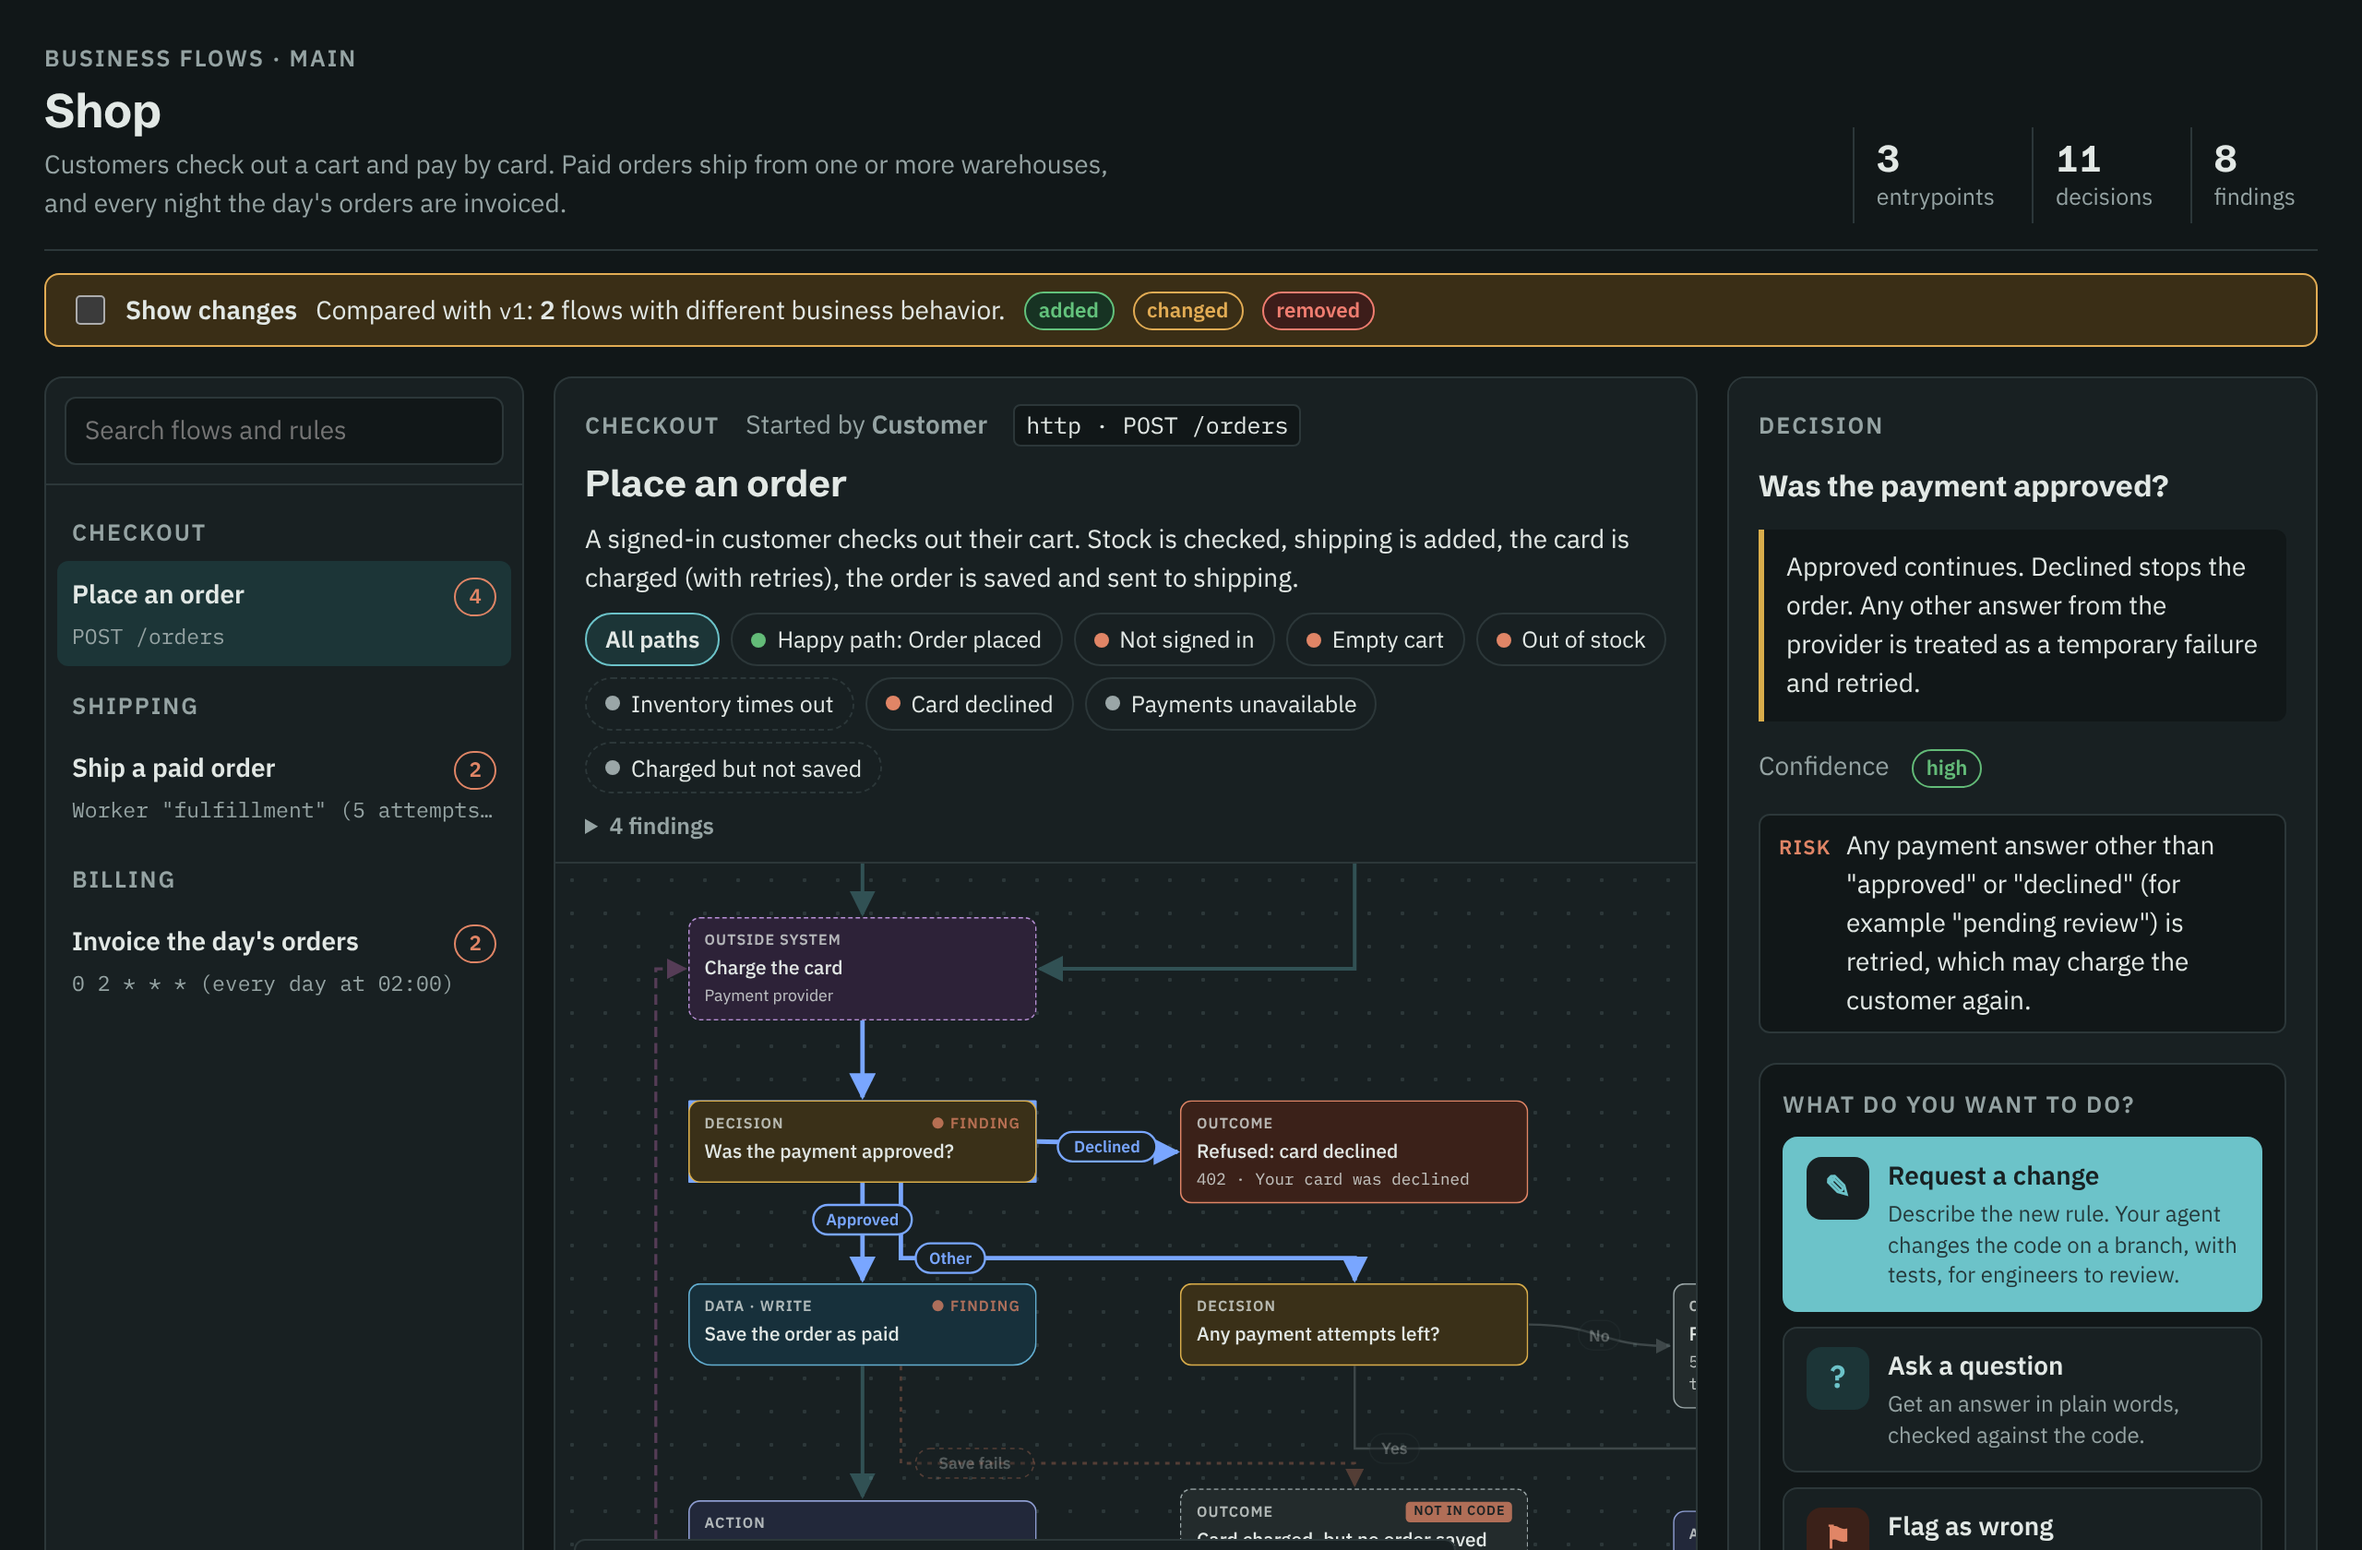
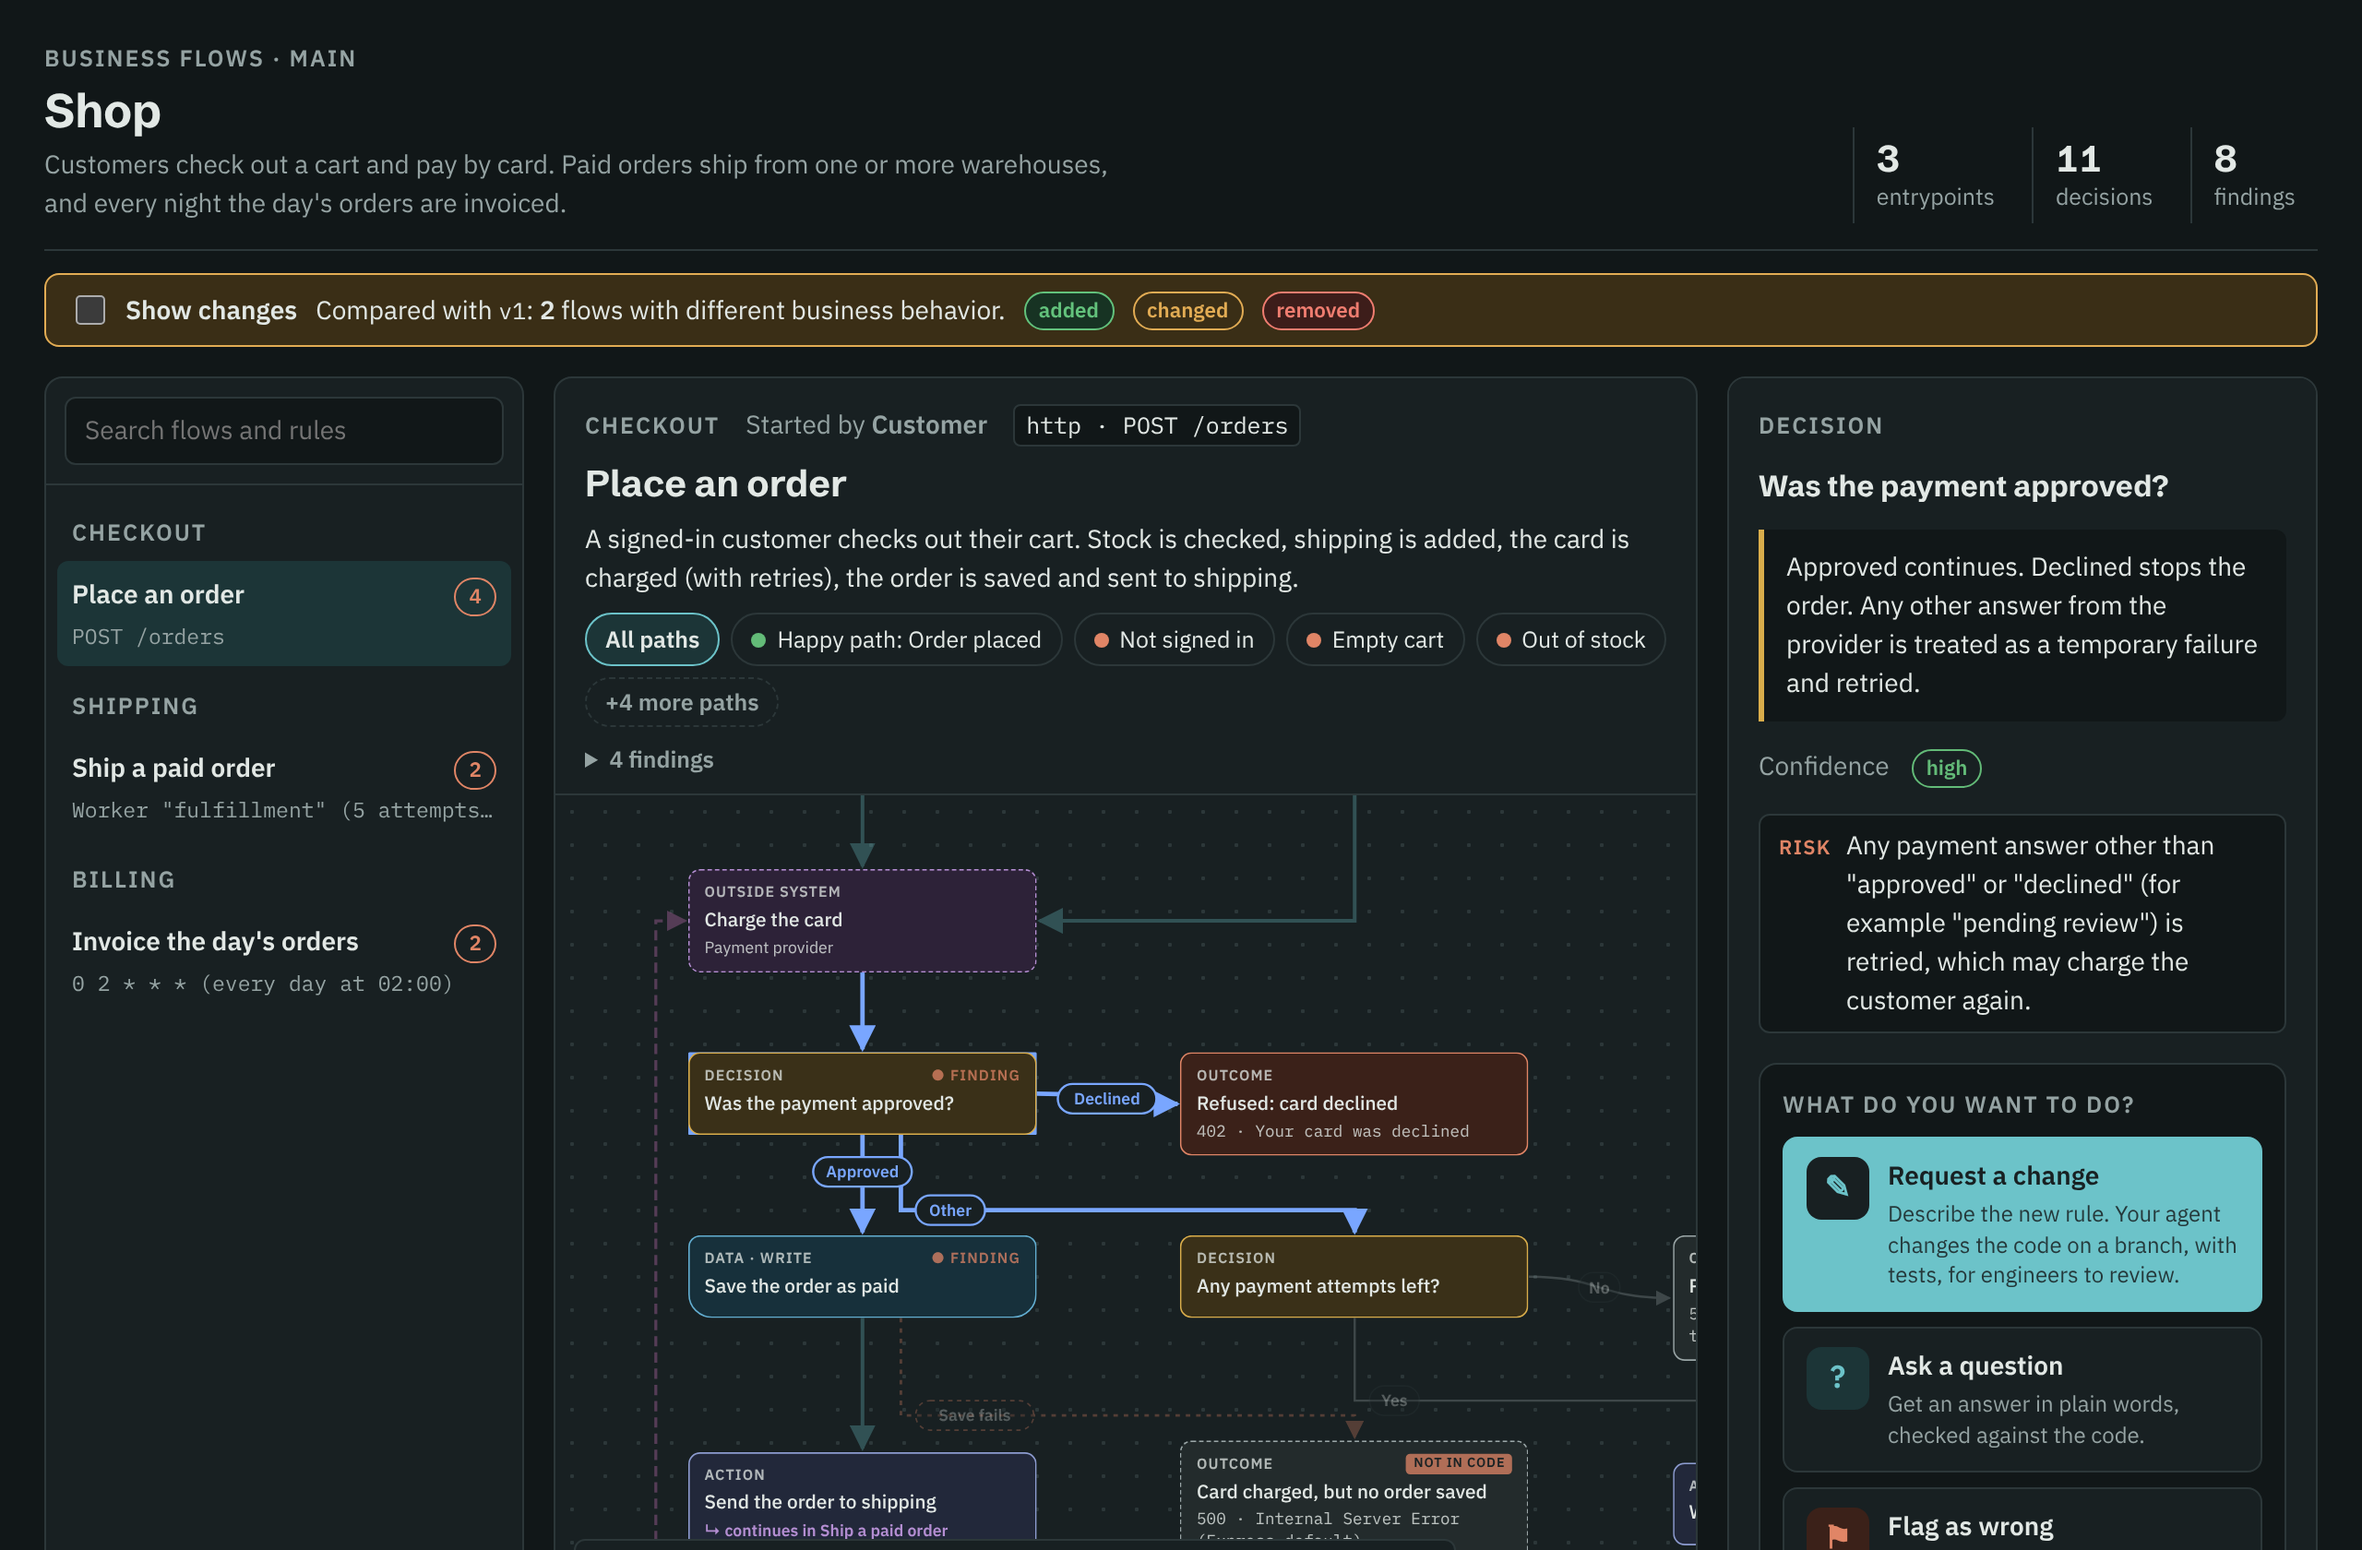
Viewer: collapse long path lists
Flows with many outcomes filled several rows with path buttons. With
more than four alternate outcomes, the row now shows "All paths", the
happy path and the first three alternates, then "+N more paths";
expanded, it shows every outcome and "Show fewer". The selected path
stays visible while collapsed, and the list collapses again when
switching flows.

Claude-Session: https://claude.ai/code/session_01PJiSFCH6Fftah1hFFyPCRG

diff --git a/examples/shop/index.html b/examples/shop/index.html
@@ -846,7 +846,14 @@ const PAYLOAD = {"head":{"version":1,"app":{"name":"Shop","summary":"Customers c
     const others = outcomes.filter((o) => o.id !== f.happyPath);
     const chips = [`<button type="button" class="pathbtn" data-p="all" aria-pressed="${state.path === 'all'}">All paths</button>`];
     if (happy) chips.push(`<button type="button" class="pathbtn success" data-p="${esc(happy.id)}" aria-pressed="${state.path === happy.id}"><span class="dot"></span>Happy path: ${esc(happy.label)}</button>`);
-    for (const o of others) chips.push(`<button type="button" class="pathbtn ${esc(o.result)}${o.implicit ? ' implicit' : ''}" data-p="${esc(o.id)}" aria-pressed="${state.path === o.id}" ${o.implicit ? 'title="Not handled in code"' : ''}><span class="dot"></span>${esc(f.outcomes?.[o.id] || o.label)}</button>`);
+    // Many outcomes make a long row: show the first few (and the selected one) until expanded.
+    const PATHS_LIMIT = 3;
+    const collapsed = others.length > PATHS_LIMIT + 1 && !state.pathsOpen;
+    const visible = collapsed ? others.filter((o, k) => k < PATHS_LIMIT || o.id === state.path) : others;
+    for (const o of visible) chips.push(`<button type="button" class="pathbtn ${esc(o.result)}${o.implicit ? ' implicit' : ''}" data-p="${esc(o.id)}" aria-pressed="${state.path === o.id}" ${o.implicit ? 'title="Not handled in code"' : ''}><span class="dot"></span>${esc(f.outcomes?.[o.id] || o.label)}</button>`);
+    if (others.length > PATHS_LIMIT + 1) chips.push(collapsed
+      ? `<button type="button" class="linkmore" data-paths="more" title="Show every outcome of this flow">+${others.length - visible.length} more path${others.length - visible.length > 1 ? 's' : ''}</button>`
+      : '<button type="button" class="linkmore" data-paths="less">Show fewer</button>');
     const changes = state.showChanges ? changeSentences(f.id) : [];
     const findings = f.findings || [];
     const notes = [
@@ -861,6 +868,7 @@ const PAYLOAD = {"head":{"version":1,"app":{"name":"Shop","summary":"Customers c
     $('flowhead').querySelectorAll('[data-goflow]').forEach((b) => b.addEventListener('click', () => select(b.dataset.goflow, false, b.dataset.gonode.split(','))));
     $('flowhead').querySelectorAll('[data-starts]').forEach((b) => b.addEventListener('click', () => { state.startsOpen = b.dataset.starts === 'more'; drawFlowHead(); }));
     $('flowhead').querySelectorAll('.pathbtn').forEach((b) => b.addEventListener('click', () => { state.path = b.dataset.p; drawFlowHead(); drawCanvas(false); }));
+    $('flowhead').querySelectorAll('[data-paths]').forEach((b) => b.addEventListener('click', () => { state.pathsOpen = b.dataset.paths === 'more'; drawFlowHead(); }));
     $('flowhead').querySelectorAll('.note[data-f]').forEach((b) => b.addEventListener('click', () => { const x = findings[+b.dataset.f]; if (x.nodes?.[0]) { state.node = x.nodes[0]; drawCanvas(false); reveal(state.node); drawInspector(); } }));
   }
 
@@ -990,7 +998,7 @@ const PAYLOAD = {"head":{"version":1,"app":{"name":"Shop","summary":"Customers c
   // ------------------------------------------------------------ routing
   function select(id, fromHash, highlight) {
     if (!flowOf(id)) id = allFlowIds[0];
-    state.flow = id; state.node = null; state.path = 'all'; state.composer = null; state.startsOpen = false;
+    state.flow = id; state.node = null; state.path = 'all'; state.composer = null; state.startsOpen = false; state.pathsOpen = false;
     state.hl = new Set(highlight || []);
     if (highlight?.length === 1 && highlight[0] !== 'start') state.node = highlight[0];
     if (!fromHash && location.hash.slice(1) !== id) history.replaceState(null, '', `#${id}`);

diff --git a/examples/video-api/index.html b/examples/video-api/index.html
@@ -846,7 +846,14 @@ const PAYLOAD = {"head":{"version":1,"app":{"name":"Video API","summary":"Editor
     const others = outcomes.filter((o) => o.id !== f.happyPath);
     const chips = [`<button type="button" class="pathbtn" data-p="all" aria-pressed="${state.path === 'all'}">All paths</button>`];
     if (happy) chips.push(`<button type="button" class="pathbtn success" data-p="${esc(happy.id)}" aria-pressed="${state.path === happy.id}"><span class="dot"></span>Happy path: ${esc(happy.label)}</button>`);
-    for (const o of others) chips.push(`<button type="button" class="pathbtn ${esc(o.result)}${o.implicit ? ' implicit' : ''}" data-p="${esc(o.id)}" aria-pressed="${state.path === o.id}" ${o.implicit ? 'title="Not handled in code"' : ''}><span class="dot"></span>${esc(f.outcomes?.[o.id] || o.label)}</button>`);
+    // Many outcomes make a long row: show the first few (and the selected one) until expanded.
+    const PATHS_LIMIT = 3;
+    const collapsed = others.length > PATHS_LIMIT + 1 && !state.pathsOpen;
+    const visible = collapsed ? others.filter((o, k) => k < PATHS_LIMIT || o.id === state.path) : others;
+    for (const o of visible) chips.push(`<button type="button" class="pathbtn ${esc(o.result)}${o.implicit ? ' implicit' : ''}" data-p="${esc(o.id)}" aria-pressed="${state.path === o.id}" ${o.implicit ? 'title="Not handled in code"' : ''}><span class="dot"></span>${esc(f.outcomes?.[o.id] || o.label)}</button>`);
+    if (others.length > PATHS_LIMIT + 1) chips.push(collapsed
+      ? `<button type="button" class="linkmore" data-paths="more" title="Show every outcome of this flow">+${others.length - visible.length} more path${others.length - visible.length > 1 ? 's' : ''}</button>`
+      : '<button type="button" class="linkmore" data-paths="less">Show fewer</button>');
     const changes = state.showChanges ? changeSentences(f.id) : [];
     const findings = f.findings || [];
     const notes = [
@@ -861,6 +868,7 @@ const PAYLOAD = {"head":{"version":1,"app":{"name":"Video API","summary":"Editor
     $('flowhead').querySelectorAll('[data-goflow]').forEach((b) => b.addEventListener('click', () => select(b.dataset.goflow, false, b.dataset.gonode.split(','))));
     $('flowhead').querySelectorAll('[data-starts]').forEach((b) => b.addEventListener('click', () => { state.startsOpen = b.dataset.starts === 'more'; drawFlowHead(); }));
     $('flowhead').querySelectorAll('.pathbtn').forEach((b) => b.addEventListener('click', () => { state.path = b.dataset.p; drawFlowHead(); drawCanvas(false); }));
+    $('flowhead').querySelectorAll('[data-paths]').forEach((b) => b.addEventListener('click', () => { state.pathsOpen = b.dataset.paths === 'more'; drawFlowHead(); }));
     $('flowhead').querySelectorAll('.note[data-f]').forEach((b) => b.addEventListener('click', () => { const x = findings[+b.dataset.f]; if (x.nodes?.[0]) { state.node = x.nodes[0]; drawCanvas(false); reveal(state.node); drawInspector(); } }));
   }
 
@@ -990,7 +998,7 @@ const PAYLOAD = {"head":{"version":1,"app":{"name":"Video API","summary":"Editor
   // ------------------------------------------------------------ routing
   function select(id, fromHash, highlight) {
     if (!flowOf(id)) id = allFlowIds[0];
-    state.flow = id; state.node = null; state.path = 'all'; state.composer = null; state.startsOpen = false;
+    state.flow = id; state.node = null; state.path = 'all'; state.composer = null; state.startsOpen = false; state.pathsOpen = false;
     state.hl = new Set(highlight || []);
     if (highlight?.length === 1 && highlight[0] !== 'start') state.node = highlight[0];
     if (!fromHash && location.hash.slice(1) !== id) history.replaceState(null, '', `#${id}`);

diff --git a/skills/im-a-pm/assets/viewer.html b/skills/im-a-pm/assets/viewer.html
@@ -839,7 +839,14 @@ const PAYLOAD = /*__IM_A_PM_DATA__*/null;
     const others = outcomes.filter((o) => o.id !== f.happyPath);
     const chips = [`<button type="button" class="pathbtn" data-p="all" aria-pressed="${state.path === 'all'}">All paths</button>`];
     if (happy) chips.push(`<button type="button" class="pathbtn success" data-p="${esc(happy.id)}" aria-pressed="${state.path === happy.id}"><span class="dot"></span>Happy path: ${esc(happy.label)}</button>`);
-    for (const o of others) chips.push(`<button type="button" class="pathbtn ${esc(o.result)}${o.implicit ? ' implicit' : ''}" data-p="${esc(o.id)}" aria-pressed="${state.path === o.id}" ${o.implicit ? 'title="Not handled in code"' : ''}><span class="dot"></span>${esc(f.outcomes?.[o.id] || o.label)}</button>`);
+    // Many outcomes make a long row: show the first few (and the selected one) until expanded.
+    const PATHS_LIMIT = 3;
+    const collapsed = others.length > PATHS_LIMIT + 1 && !state.pathsOpen;
+    const visible = collapsed ? others.filter((o, k) => k < PATHS_LIMIT || o.id === state.path) : others;
+    for (const o of visible) chips.push(`<button type="button" class="pathbtn ${esc(o.result)}${o.implicit ? ' implicit' : ''}" data-p="${esc(o.id)}" aria-pressed="${state.path === o.id}" ${o.implicit ? 'title="Not handled in code"' : ''}><span class="dot"></span>${esc(f.outcomes?.[o.id] || o.label)}</button>`);
+    if (others.length > PATHS_LIMIT + 1) chips.push(collapsed
+      ? `<button type="button" class="linkmore" data-paths="more" title="Show every outcome of this flow">+${others.length - visible.length} more path${others.length - visible.length > 1 ? 's' : ''}</button>`
+      : '<button type="button" class="linkmore" data-paths="less">Show fewer</button>');
     const changes = state.showChanges ? changeSentences(f.id) : [];
     const findings = f.findings || [];
     const notes = [
@@ -854,6 +861,7 @@ const PAYLOAD = /*__IM_A_PM_DATA__*/null;
     $('flowhead').querySelectorAll('[data-goflow]').forEach((b) => b.addEventListener('click', () => select(b.dataset.goflow, false, b.dataset.gonode.split(','))));
     $('flowhead').querySelectorAll('[data-starts]').forEach((b) => b.addEventListener('click', () => { state.startsOpen = b.dataset.starts === 'more'; drawFlowHead(); }));
     $('flowhead').querySelectorAll('.pathbtn').forEach((b) => b.addEventListener('click', () => { state.path = b.dataset.p; drawFlowHead(); drawCanvas(false); }));
+    $('flowhead').querySelectorAll('[data-paths]').forEach((b) => b.addEventListener('click', () => { state.pathsOpen = b.dataset.paths === 'more'; drawFlowHead(); }));
     $('flowhead').querySelectorAll('.note[data-f]').forEach((b) => b.addEventListener('click', () => { const x = findings[+b.dataset.f]; if (x.nodes?.[0]) { state.node = x.nodes[0]; drawCanvas(false); reveal(state.node); drawInspector(); } }));
   }
 
@@ -983,7 +991,7 @@ const PAYLOAD = /*__IM_A_PM_DATA__*/null;
   // ------------------------------------------------------------ routing
   function select(id, fromHash, highlight) {
     if (!flowOf(id)) id = allFlowIds[0];
-    state.flow = id; state.node = null; state.path = 'all'; state.composer = null; state.startsOpen = false;
+    state.flow = id; state.node = null; state.path = 'all'; state.composer = null; state.startsOpen = false; state.pathsOpen = false;
     state.hl = new Set(highlight || []);
     if (highlight?.length === 1 && highlight[0] !== 'start') state.node = highlight[0];
     if (!fromHash && location.hash.slice(1) !== id) history.replaceState(null, '', `#${id}`);
